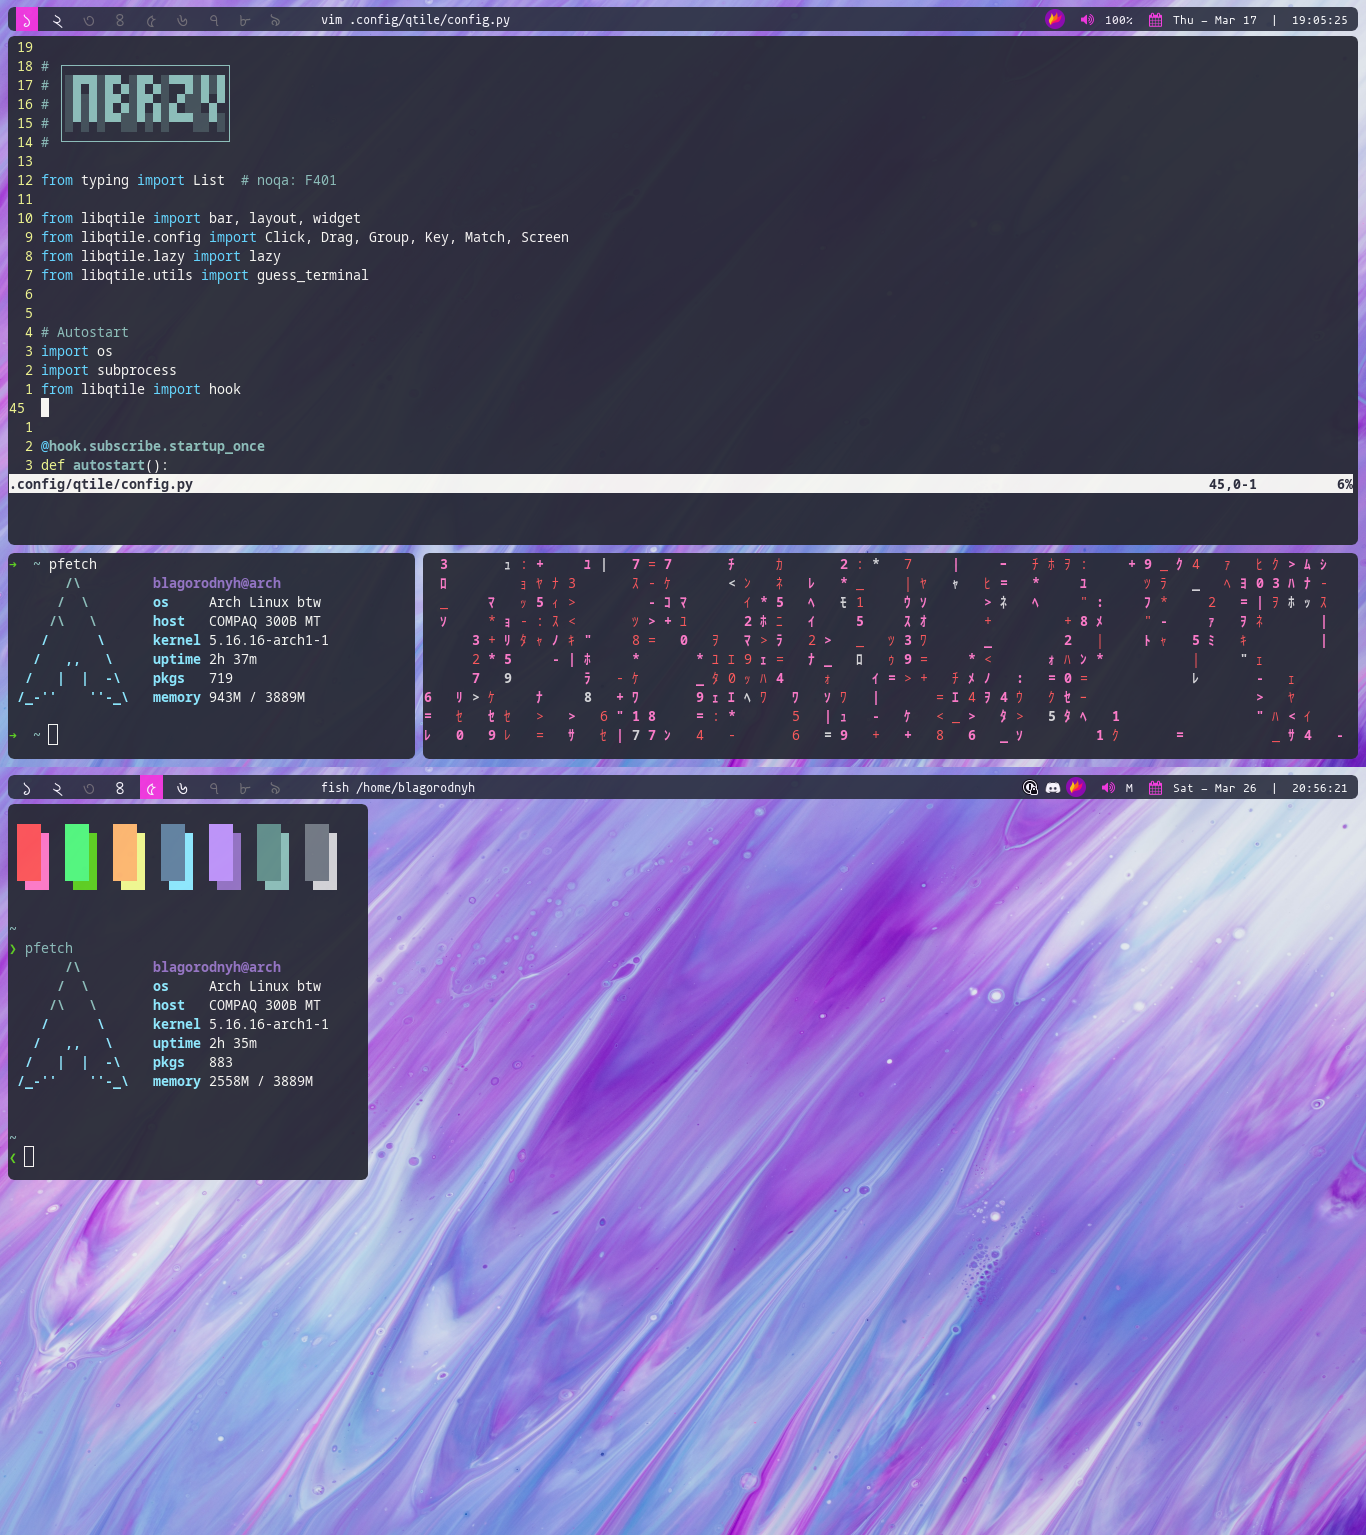
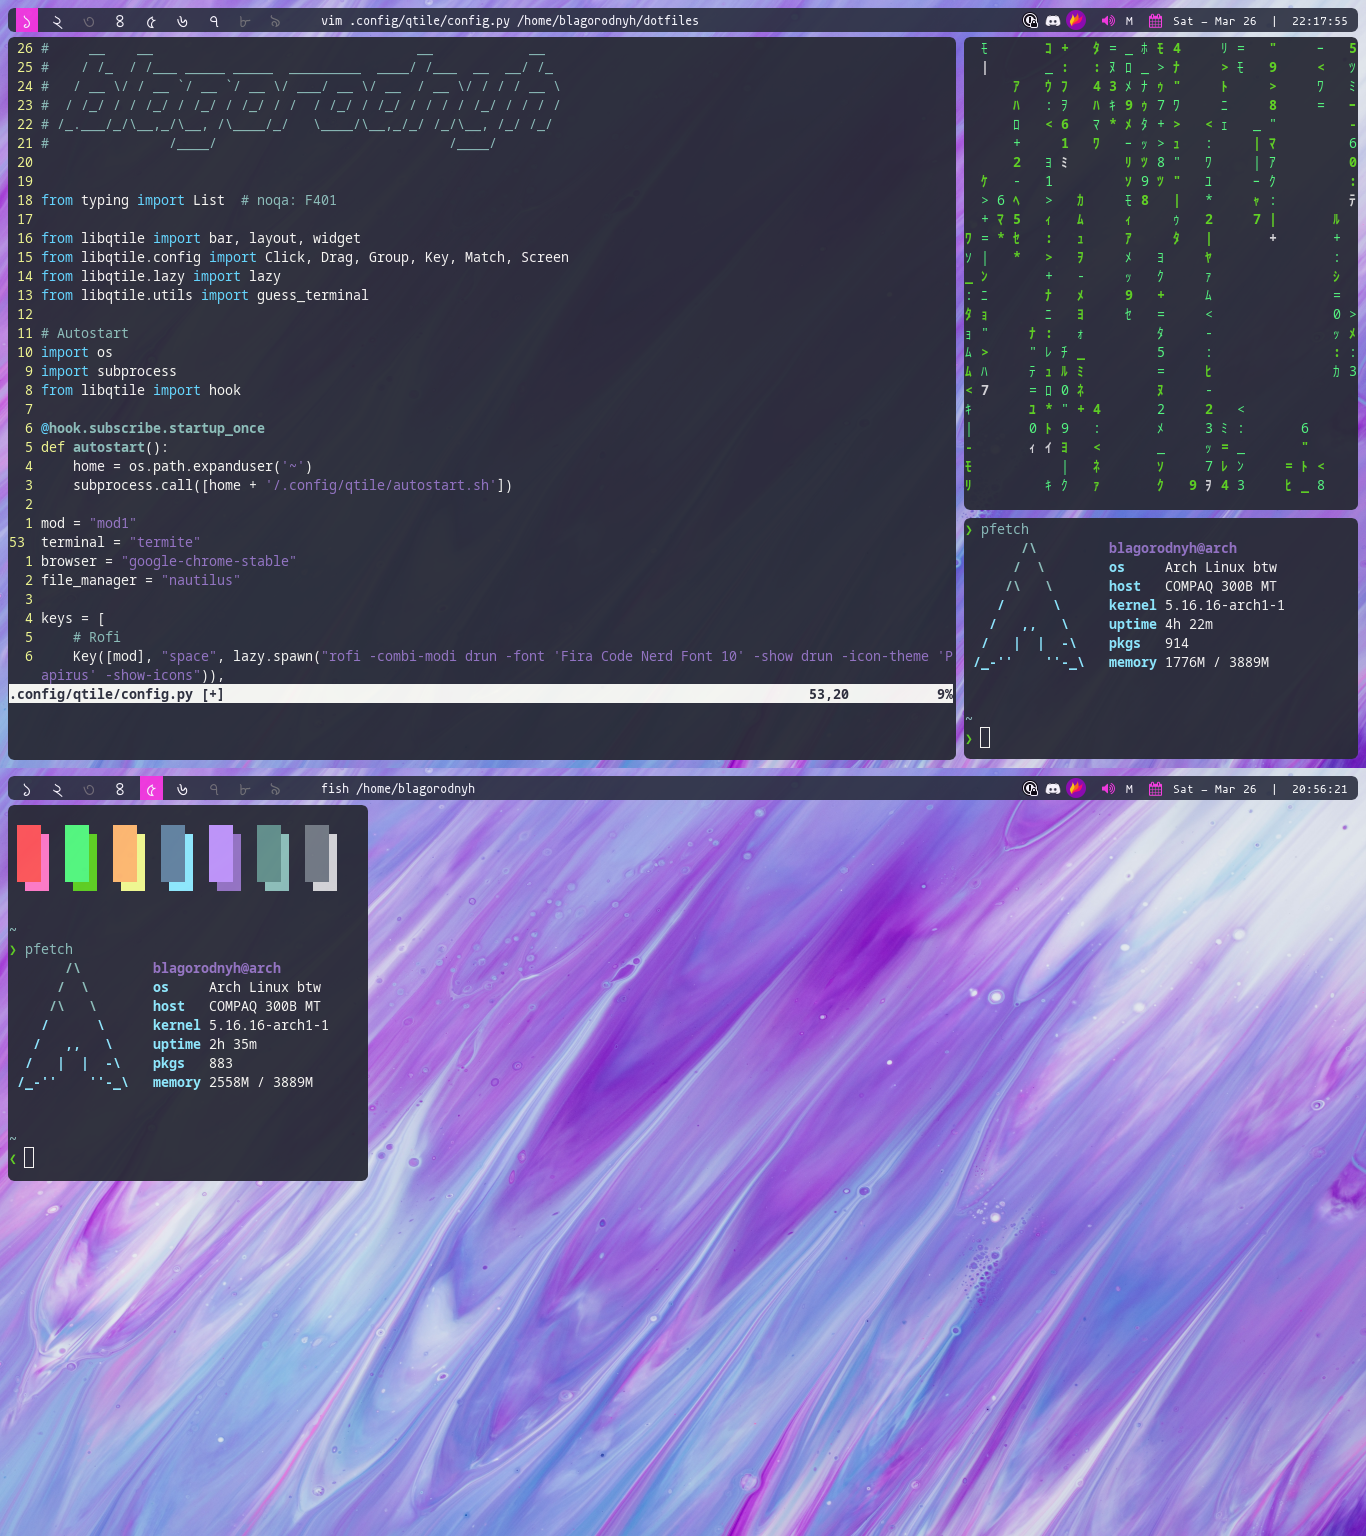
change screenshot

diff --git a/.config/qtile/config.py b/.config/qtile/config.py
@@ -24,11 +24,13 @@
 # OUT OF OR IN CONNECTION WITH THE SOFTWARE OR THE USE OR OTHER DEALINGS IN THE
 # SOFTWARE.
 
-# ┌────────────────────┐
-# │░█▀█░█▀▄░█▀▄░▀▀█░█░█│
-# │░█░█░█▀▄░█▀▄░▄▀░░▀▄▀│
-# │░▀░▀░▀▀░░▀░▀░▀▀▀░░▀░│
-# └────────────────────┘
+#     __    __                                 __            __
+#    / /_  / /___ _____ _____  _________  ____/ /___  __  __/ /_
+#   / __ \/ / __ `/ __ `/ __ \/ ___/ __ \/ __  / __ \/ / / / __ \
+#  / /_/ / / /_/ / /_/ / /_/ / /  / /_/ / /_/ / / / / /_/ / / / /
+# /_.___/_/\__,_/\__, /\____/_/   \____/\__,_/_/ /_/\__, /_/ /_/
+#               /____/                             /____/
+
 
 from typing import List  # noqa: F401
 
